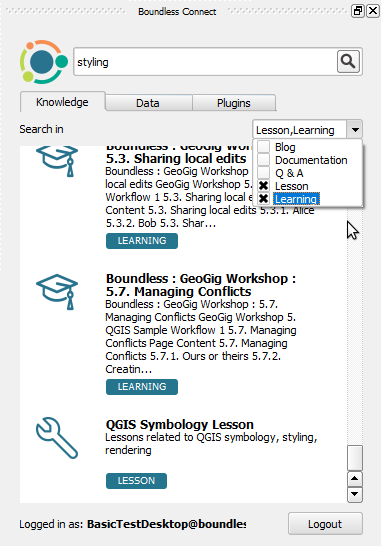
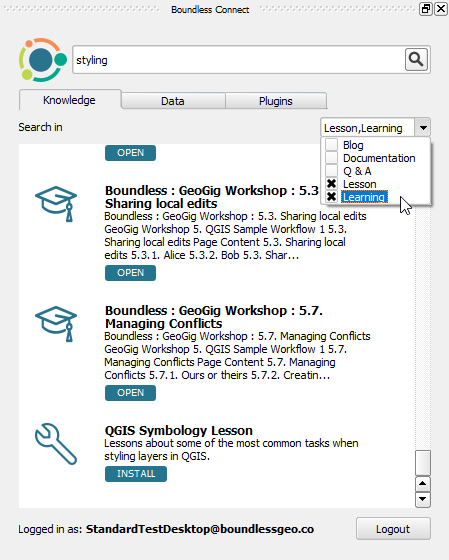
Updates documentation for new buttons and search behaviour

diff --git a/docs/source/usage.rst b/docs/source/usage.rst
@@ -117,13 +117,17 @@ user's email you have logged with and a :guilabel:`Logout` button (clicking the
 new credentials).
 
 To search for Boundless Connect content, select the appropriate tab, type some
-text in the field and click the :guilabel:`Search` icon (or press :kbd:`Enter`
+keyword in the field and click the :guilabel:`Search` icon (or press
+:kbd:`Enter`
 on your keyboard).
 
 .. figure:: img/search-results.png
    :align: center
 
    Search results
+
+Clicking the :guilabel:`Search` icon (or press :kbd:`Enter` on your keyboard)
+without entering any keyword will list all results for the current tab.
 
 At the top of the results list, is shown the number of results. Each item of
 the search results will show an icon, a title and a description
@@ -133,7 +137,7 @@ more details.
 
 .. note::
 
-   You will note that some resources buttons are red (instead of blue). That
+   You will note that some resources buttons are orange (instead of blue). That
    means your Boundless Connect subscription level is lower than what is
    required for accessing that resource, clicking it will point you to the
    subscription page in Boundless Connect, where you can upgrade your
@@ -158,14 +162,13 @@ the search runs through all categories.
 
 .. figure:: img/knowledge_tab.png
 
-Under each result, there is a button that informs the category of the resource.
-Clicking it will perform a different action depending on the resource type.
-For lessons resources, it will download and install the lesson (you will
-need to `Lesson plugin <https://connect.boundlessgeo
+Under each result, there is a button that allows performing a different action
+depending on the resource type.
+For lessons resources, clicking **Install** it will download and install
+the lesson (you will need to `Lesson plugin <https://connect.boundlessgeo
 .com/docs/desktop/plugins/lessons/>`_ installed to use them). For other
-knowledge resources,
-like Documentation or Learning Center online content, it will open it in your
-default web browser.
+knowledge resources, like Documentation or Learning Center online content,
+clicking **Open** will open it in your default web browser.
 
 .. note::
 
@@ -173,6 +176,12 @@ default web browser.
    your Boundless Connect credential again in your browser.
 
    .. figure:: img/enter_credentials_in_learning_center.png
+
+In the :guilabel:`Knowledge` tab, clicking the :guilabel:`Search` icon (or
+pressing :kbd:`Enter` on your keyboard) without entering any keyword will list
+all knowledge resources, which are thousands. Therefore, we strongly
+suggest you filter the search using the categories (for example, select only
+the *Lessons* category to list all lessons available).
 
 .. _connect-data-tab:
 
@@ -190,6 +199,10 @@ will be two action buttons available:
 
 .. figure:: img/data_tab.png
 
+To list all available data resources, click the
+:guilabel:`Search` icon (or press :kbd:`Enter` on your keyboard) without
+entering any keyword.
+
 Plugins tab
 ...........
 
@@ -198,6 +211,9 @@ QGIS. For each result, there will be a button that allows you to
 download and install the plugin easily.
 
 .. figure:: img/plugin_tab.png
+
+To list all available Boundless Plugins for QGIS, click the :guilabel:`Search`
+icon (or press :kbd:`Enter` on your keyboard) without entering any keyword.
 
 .. note::
 
